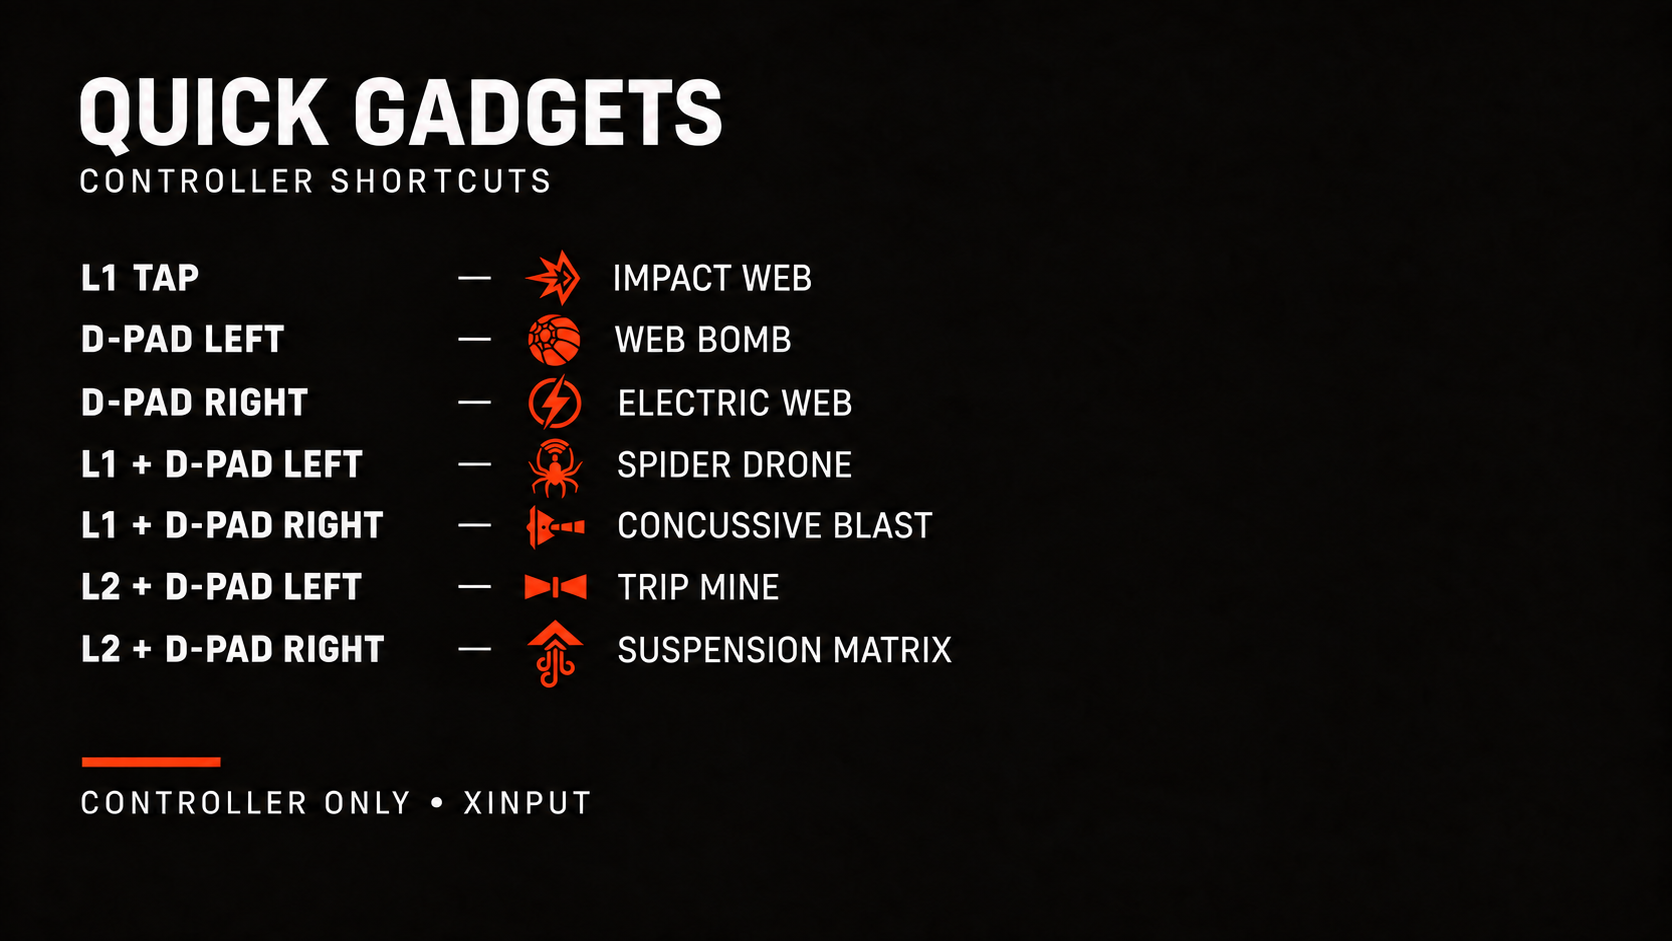
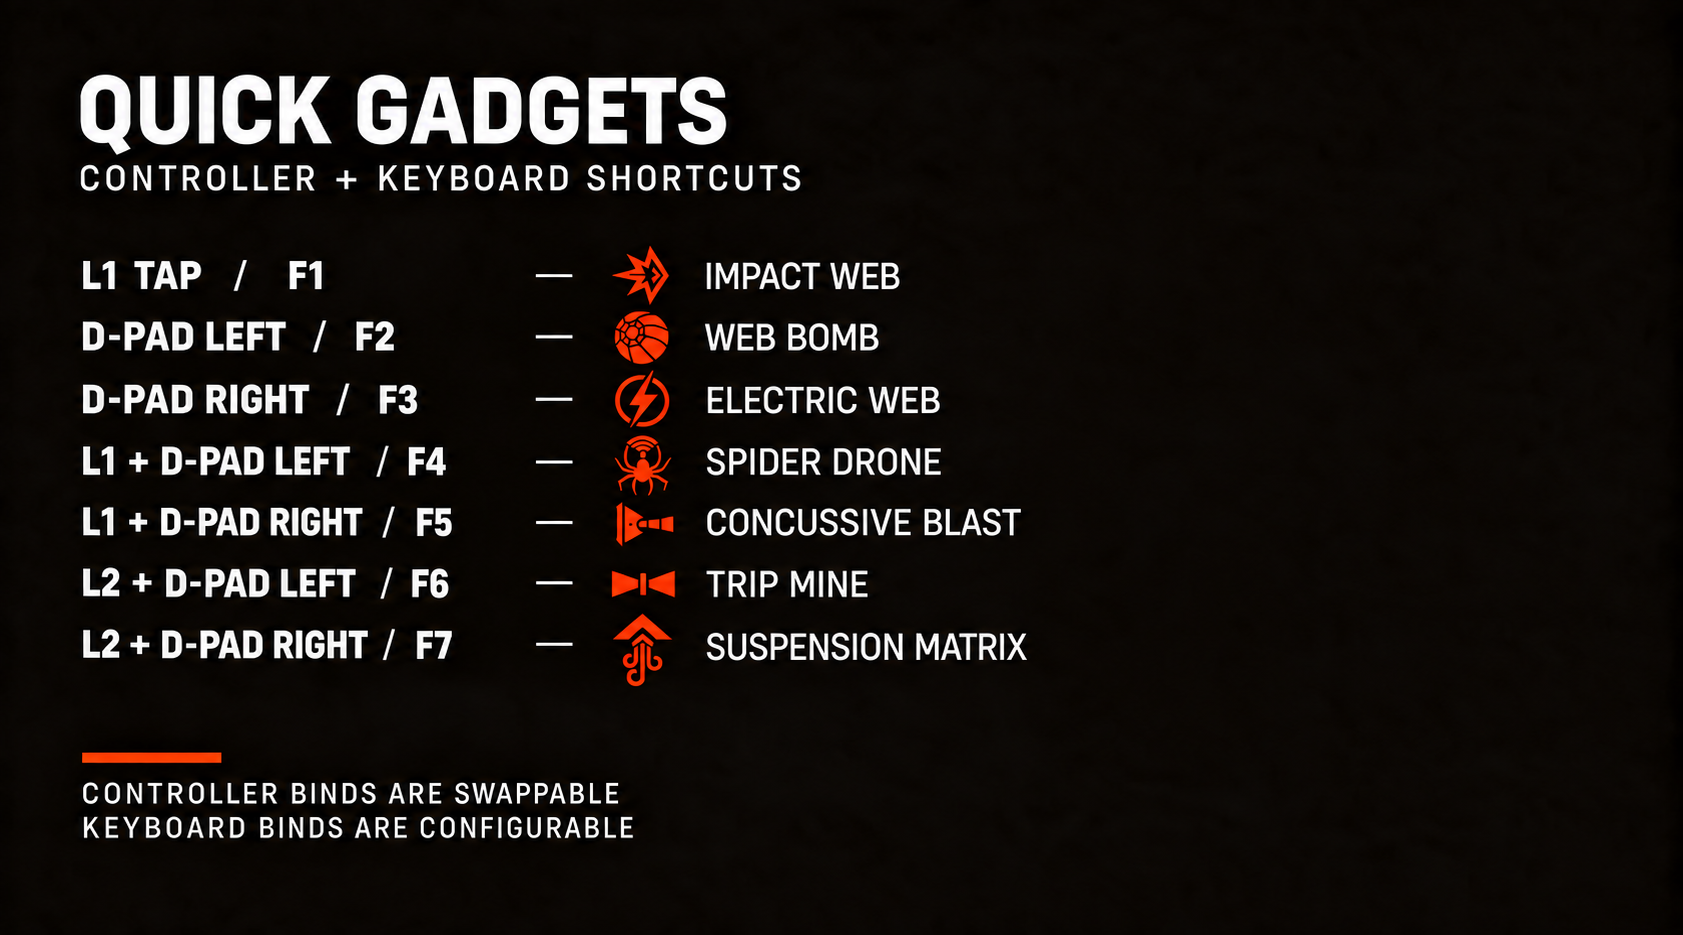
Release keyboard and mouse shortcuts in v1.1.0

diff --git a/src/QuickGadgets.cpp b/src/QuickGadgets.cpp
@@ -1394,6 +1394,10 @@ constexpr const wchar_t* kGadgetConfigNames[kGadgetCount] = {
     L"WebBomb", L"TripMine", L"ConcussiveBlast", L"SuspensionMatrix",
 };
 
+constexpr const wchar_t* kDefaultKeyboardKeyNames[kGadgetCount] = {
+    L"None", L"F1", L"F4", L"F3", L"F2", L"F6", L"F5", L"F7",
+};
+
 int ReadControllerBinding(const wchar_t* key, int fallback,
                           const std::wstring& path) {
     wchar_t value[64]{};
@@ -1486,10 +1490,9 @@ Config LoadConfig() {
     std::array<bool, 256> assigned{};
     for (int slot = 0; slot < kGadgetCount; ++slot) {
         wchar_t value[64]{};
-        const std::wstring fallback = config.keyboardKeys[slot] == 0
-            ? L"None" : L"F" + std::to_wstring(config.keyboardKeys[slot] - VK_F1 + 1);
-        GetPrivateProfileStringW(L"Keyboard", kGadgetConfigNames[slot], fallback.c_str(),
-            value, static_cast<DWORD>(std::size(value)), path.c_str());
+        GetPrivateProfileStringW(L"KeyboardBindings", kGadgetConfigNames[slot],
+            kDefaultKeyboardKeyNames[slot], value,
+            static_cast<DWORD>(std::size(value)), path.c_str());
         const auto parsed = quickgadgets::ParseKeyboardKey(value);
         if (!parsed || (*parsed != 0 &&
             (*parsed == config.toggleKey || *parsed == VK_INSERT || assigned[*parsed]))) {
@@ -1606,7 +1609,7 @@ void Worker() {
     quickgadgets::KeyboardTapMode keyboardTapMode;
     Log(g_config.keyboardEnabled
         ? "Experimental native keyboard shortcuts enabled (no keyboard simulation)"
-        : "Native keyboard shortcuts disabled; set [Keyboard] Enabled=1 to test");
+        : "Native keyboard shortcuts disabled in QuickGadgets.ini");
 
     while (g_running) {
         if (g_nativeRestorePending.load() &&

diff --git a/tests/KeyboardBindingsTests.cpp b/tests/KeyboardBindingsTests.cpp
@@ -10,6 +10,7 @@ int main() {
     check(ParseKeyboardKey(L"F24") == 0x87, "F24");
     check(ParseKeyboardKey(L"a") == 0x41, "letter");
     check(ParseKeyboardKey(L"2") == 0x32, "number row");
+    check(ParseKeyboardKey(L"0") == 0x30, "number-row zero");
     check(ParseKeyboardKey(L"Numpad2") == 0x62, "numpad");
     check(ParseKeyboardKey(L"Mouse4") == 0x05, "mouse side button");
     check(ParseKeyboardKey(L"LShift") == 0xA0, "left shift");

diff --git a/README.md b/README.md
@@ -4,21 +4,21 @@ Quick Gadgets adds fast, Spider-Man 2-inspired gadget shortcuts to **Marvel's Sp
 
 Created by **Sticky Sushi**.
 
-![Quick Gadgets controller shortcuts](assets/controller-mappings.png)
+![Quick Gadgets controller and keyboard shortcuts](assets/controller-mappings.png)
 
 ## Compatibility
 
 - Steam version of Marvel's Spider-Man Remastered, executable version **4.0630.0.0**
-- Controller only; keyboard and mouse are not currently supported
-- XInput controller required
+- Keyboard and mouse supported without XInput
+- Controller support requires XInput
   - Xbox controllers work directly
   - For PlayStation and other non-XInput controllers, try Steam Input first
   - If the shortcuts do not respond through Steam Input, disable it for the game and use DS4Windows in Xbox 360 emulation mode
-- The in-game **Gadget Select Button** setting must be **Hold R1**
+- Controller users must set the in-game **Gadget Select Button** to **Hold R1**
 
 The game continued to process its normal face-button actions when they were used in shortcuts. To avoid attacking, dodging, or jumping while firing a gadget, Quick Gadgets uses L1/L2 and D-pad combinations instead of Spider-Man 2's R1 + face-button layout.
 
-## Default controls
+## Default controller controls
 
 | Shortcut | Gadget |
 | --- | --- |
@@ -34,22 +34,41 @@ After firing, the selected gadget stays active for 450 milliseconds so the short
 
 Locked gadgets remain unavailable until they are unlocked normally in the game.
 
+## Default keyboard controls
+
+| Key | Gadget |
+| --- | --- |
+| F1 | Impact Web |
+| F2 | Web Bomb |
+| F3 | Electric Web |
+| F4 | Spider Drone |
+| F5 | Concussive Blast |
+| F6 | Trip Mine |
+| F7 | Suspension Matrix |
+
+Web Shooter is set to `None` because automatic restoration already returns to
+it. Every key can be changed in the INI. Holding a key fires only once; press and
+release it for each shot. Controller and keyboard shortcuts work simultaneously.
+
 ## Installation
 
 1. Download and extract [Spider-Man PC Script Hook v1.0.2](https://www.nexusmods.com/marvelsspidermanremastered/mods/1288) into the game folder beside `Spider-Man.exe`.
 2. Download the [Script Hook compatibility patch for game version 4.0630.0.0](https://www.nexusmods.com/marvelsspidermanremastered/mods/6167) and extract it into the same folder, replacing files when asked.
 3. Download and extract [Overstrike 1.8.1](https://github.com/Tkachov/Overstrike/releases) outside the game folder, then create a Marvel's Spider-Man Remastered profile.
 4. Download the [MSMR Overstrike Script Proxy Fix v1.0.1](https://github.com/saltyboosack-blip/MSMR-Overstrike-Script-Proxy-Fix/releases/tag/v1.0.1). Close the game and Overstrike, run `1_INSTALL_PROXY_FIX.cmd`, and select the `Overstrike.exe` you use.
-5. Add `QuickGadgets-v1.0.0.script` to Overstrike and enable it.
+5. Add `QuickGadgets-v1.1.0.script` to Overstrike and enable it.
 6. In Overstrike's `.script` settings, enable both **Enable .script support** and **Add '-scripts' to commandline.txt**.
-7. In the game's controller settings, set **Gadget Select Button** to **Hold R1**.
+7. Controller users: set **Gadget Select Button** to **Hold R1** in the game's controller settings.
 8. Click **Install Mods**, close Overstrike, and launch the game normally through Steam. Do not run `SMPCScriptHookLauncher.exe`.
 
 After installation, normal launches only require pressing Play in Steam. Use Overstrike again when installing, updating, disabling, or removing mods.
 
 ## Configuration
 
-Edit `scripts/QuickGadgets.ini` inside the game folder while the game is closed. Each entry in `[ControllerBindings]` directly names the gadget assigned to that shortcut.
+Edit `scripts/QuickGadgets.ini` inside the game folder while the game is closed.
+`[ControllerBindings]` assigns gadgets to controller shortcuts, while
+`[KeyboardBindings]` assigns keys to gadgets. The INI lists every accepted key
+name, including mouse buttons. Restart the game after saving changes.
 
 Accepted names are:
 
@@ -69,9 +88,14 @@ Use `None` to disable a shortcut. Restart the game after making changes. F10 tem
 
 `AutoRestoreWebShooter=1` enables the automatic return to Web Shooter. `RepeatWindowMs` controls how long the selected gadget remains active after firing.
 
+With `SingleTapSelectDoubleTapFire=1`, one keyboard tap selects the gadget without
+firing; a second tap of the same key within `DoubleTapWindowMs` fires it. The
+default value is `0`, so one tap selects and fires. See [keyboard configuration](docs/KEYBOARD.md).
+
 ## Troubleshooting
 
 - Nothing happens: verify the game is version 4.0630.0.0, both Script Hook downloads were installed in order, Quick Gadgets is enabled in Overstrike, and Overstrike's two `.script` options are enabled.
+- Keyboard shortcut performs another action too: assign a key not used by the game's controls. Quick Gadgets does not suppress normal keyboard bindings.
 - Script Hook itself does not load: install the [Microsoft Visual C++ Redistributable x64](https://aka.ms/vs/17/release/vc_redist.x64.exe) and the [DirectX SDK (June 2010)](https://www.microsoft.com/en-us/download/details.aspx?id=6812), which are listed by Script Hook as requirements.
 - Wrong controller detected: change `Index=-1` to `0`, `1`, `2`, or `3`.
 - PlayStation or other non-XInput controller: try Steam Input first. If the game recognizes the controller but Quick Gadgets does not, disable Steam Input for the game and use DS4Windows in Xbox 360 emulation mode.
@@ -79,10 +103,6 @@ Use `None` to disable a shortcut. Restart the game after making changes. F10 tem
 - Overstrike removed the `scripts` folder: add/enable Quick Gadgets again and click **Install Mods**.
 
 ## Building from source
-
-Development builds include opt-in experimental keyboard shortcuts, disabled by
-default. See [keyboard testing instructions](docs/KEYBOARD_TESTING.md). The public
-release remains controller-only until native keyboard/mouse firing is validated.
 
 Requires Visual Studio 2022 with Desktop development with C++ and CMake.
 

diff --git a/docs/KEYBOARD.md b/docs/KEYBOARD.md
@@ -1,0 +1,29 @@
+# Keyboard and mouse shortcuts
+
+Quick Gadgets supports native keyboard and mouse shortcuts alongside controller
+shortcuts. No XInput controller is required when using keyboard and mouse.
+
+Edit `[Keyboard]` and `[KeyboardBindings]` in `scripts/QuickGadgets.ini` while
+the game is closed. Restart the game after saving changes.
+
+Keys are configurable by readable names in `[KeyboardBindings]`. Use `None` to disable one.
+Duplicate keys, the mod toggle key (normally F10), and Script Hook's Insert key
+are rejected and logged. Do not assign shortcut keys to other in-game actions:
+this implementation does not suppress their normal behavior.
+
+The native firing/restore path is shared with controller shortcuts; it does not
+send simulated keys or cycle the gadget wheel. General AutoRestoreWebShooter and
+RepeatWindowMs apply to both. No XInput device is needed to detect keyboard keys.
+
+The game rejects gadget shortcuts in the pause menu, map, Photo Mode, and main
+menu. The mod also ignores shortcuts while another application has focus.
+
+If it selects but does not fire, provide scripts/QuickGadgets.log. The key press
+is logged separately from the native equipment transition and fire operation.
+
+## Select/double-fire mode
+
+Set `SingleTapSelectDoubleTapFire=1`. One tap selects the gadget without firing
+or scheduling automatic restoration. A second tap of the same key inside
+`DoubleTapWindowMs` fires it and starts the normal repeat/restore timer. A late
+second tap or a tap on another gadget only makes that selection.

diff --git a/CHANGELOG.md b/CHANGELOG.md
@@ -1,5 +1,14 @@
 # Changelog
 
+## 1.1.0 - 2026-09-12
+
+- Added configurable native keyboard and mouse gadget shortcuts.
+- Added optional single-tap-select/double-tap-fire behavior.
+- Added readable keyboard, mouse-button, punctuation, and virtual-key names.
+- Added protection against duplicate/reserved bindings, held-key repetition,
+  focus changes, and inputs outside active gameplay.
+- Preserved simultaneous controller and keyboard support.
+
 ## 1.0.0 - 2026-09-11
 
 - Initial public release.
